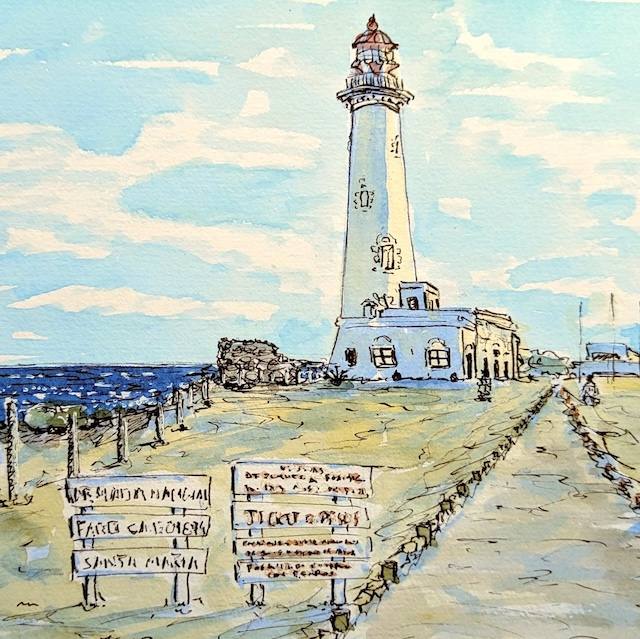
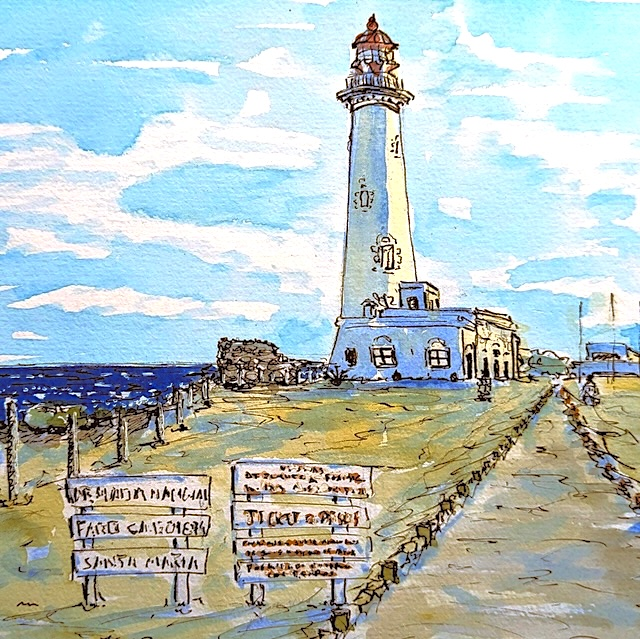
Add paintings.

diff --git a/_projects/14_Pilares_de_la_creacion.md b/_projects/14_Pilares_de_la_creacion.md
@@ -1,14 +1,14 @@
 ---
 layout: page
 title: Pilares de la Creación
-img: assets/img/art_thumb/Pilares_de_la_creacion.jpg
+img: assets/img/art_thumb/Pilares_de_la_creacion.png
 importance: 14
 category: landscapes
 ---
 
 <div class="row">
     <div class="col-sm mt-3 mt-md-0">
-        {% include figure.liquid loading="eager" path="assets/img/art_full/Pilares_de_la_creacion.jpg" title="Pilares de la Creación" class="img-fluid rounded z-depth-1 painting-img" %}
+        {% include figure.liquid loading="eager" path="assets/img/art_full/Pilares_de_la_creacion.png" title="Pilares de la Creación" class="img-fluid rounded z-depth-1 painting-img" %}
     </div>
 </div>
 <div class="caption">

diff --git a/_projects/15_Pilares_de_la_creacion_sombra.md b/_projects/15_Pilares_de_la_creacion_sombra.md
@@ -1,0 +1,16 @@
+---
+layout: page
+title: Pilares de la Creación
+img: assets/img/art_thumb/Pilares_de_la_creacion_sombra.jpeg
+importance: 15
+category: landscapes
+---
+
+<div class="row">
+    <div class="col-sm mt-3 mt-md-0">
+        {% include figure.liquid loading="eager" path="assets/img/art_full/Pilares_de_la_creacion_sombra.jpeg" title="Pilares de la Creación" class="img-fluid rounded z-depth-1 painting-img" %}
+    </div>
+</div>
+<div class="caption">
+    Pilares de la Creación. Acuarela sobre papel.
+</div>
